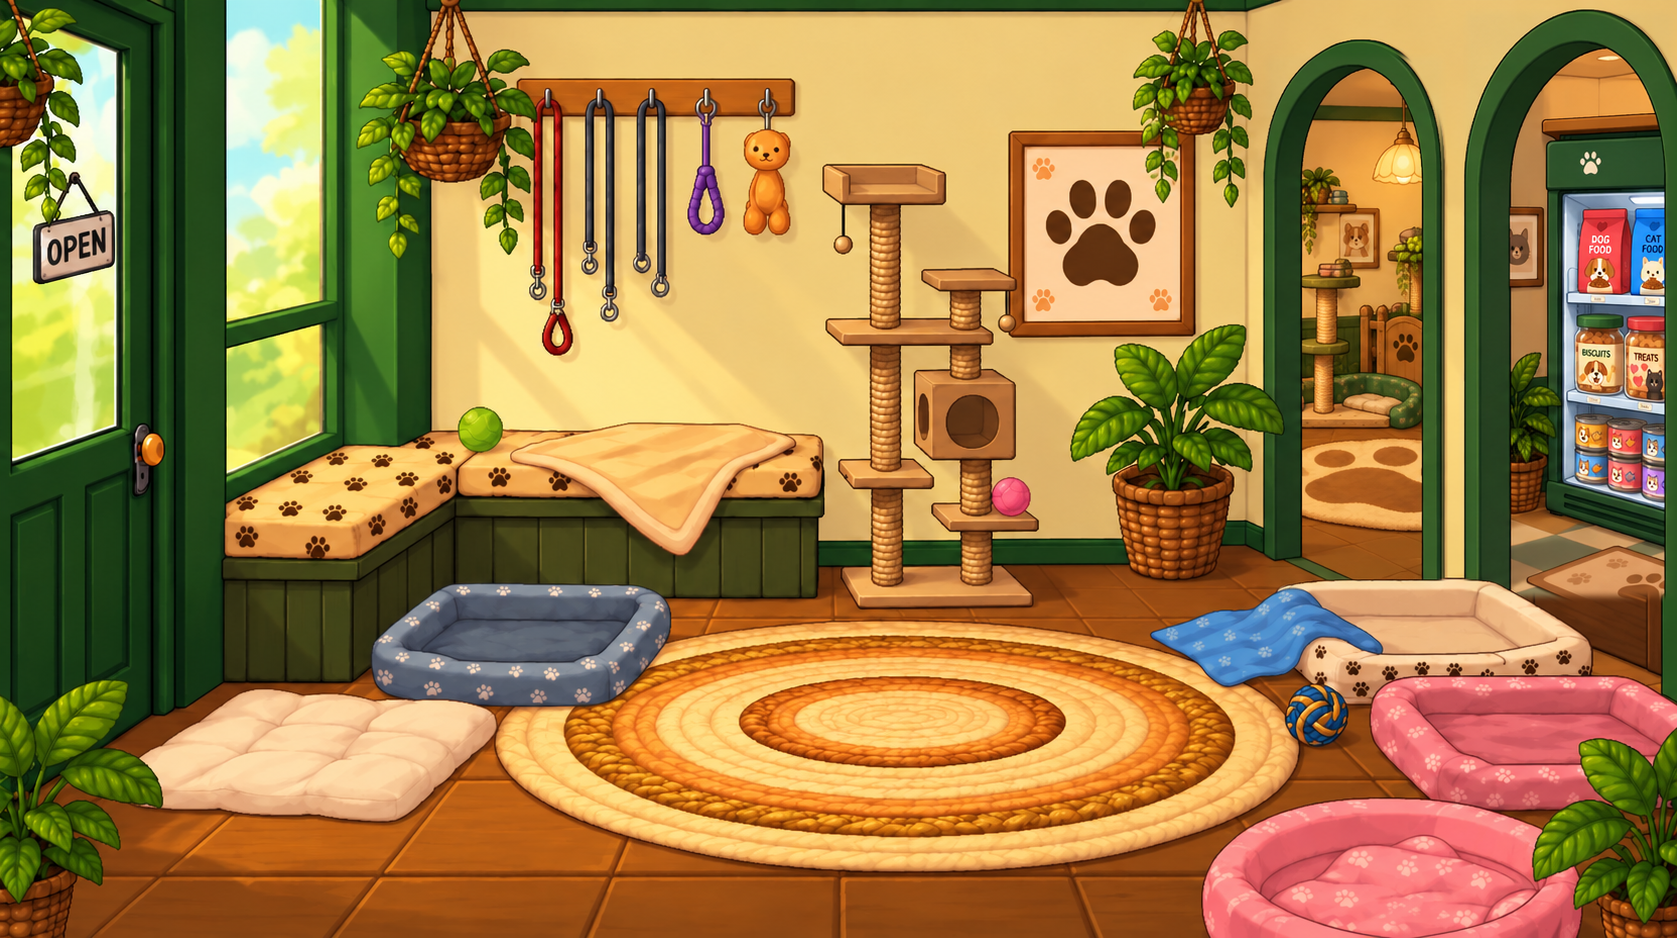
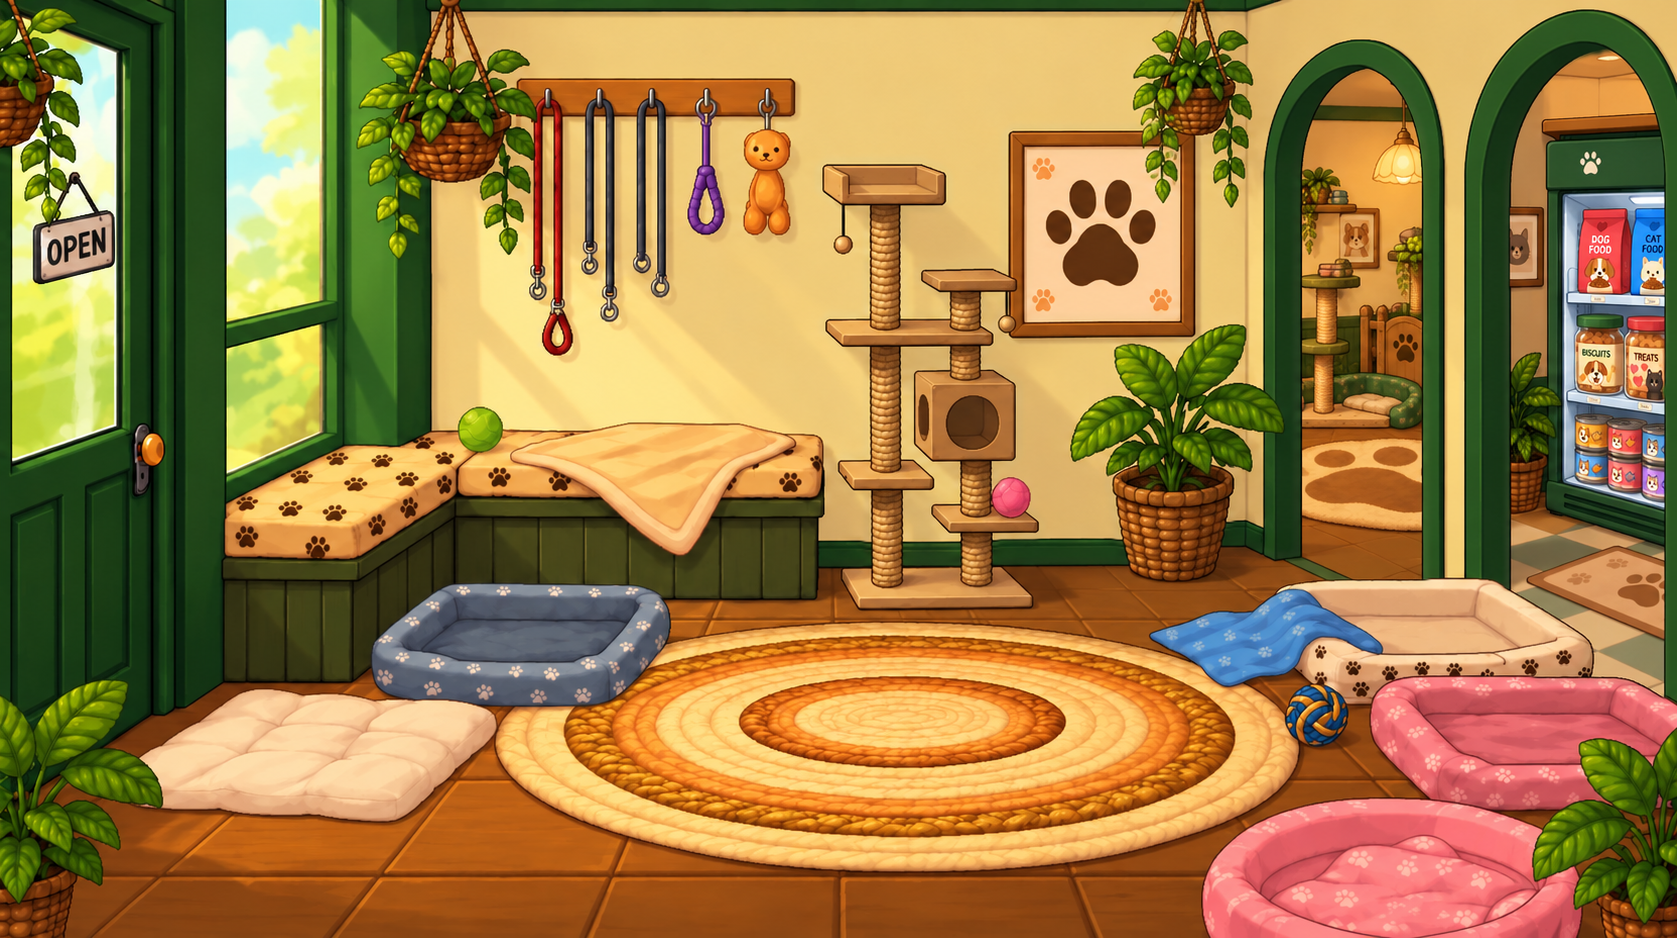
Doors: baked open pictures follow the door shape (no leftover door), hover pushes the door ajar; Foster hover tag says FOSTER like ADOPT (shared PetTag)
Claude-Session: https://claude.ai/code/session_01KbwSo6yL3mitC5MkkWGPtA

diff --git a/src/screens/PetShopScreen.js b/src/screens/PetShopScreen.js
@@ -9,6 +9,7 @@ import InventoryOverlay from '../components/InventoryOverlay';
 import ScreenHud from '../components/ScreenHud';
 import PetSprite from '../components/PetSprite';
 import { AdoptModal } from '../components/PetCard';
+import PetTag from '../components/PetTag';
 import { PixelText, PixelPanel, PixelButton, COLORS, PIXEL_FONT } from '../components/Pixel';
 
 // Pets were laid out in Plopper on a 1376×768 canvas with the bg STRETCHED to
@@ -45,29 +46,6 @@ export const SHOP_PETS = [
 ];
 
 
-// Label over a pet — plain white outlined pixel text (like the map signs), shown
-// only while hovering that pet. It fades in and bobs gently.
-function PetTag({ label, show }) {
-  const fade = useRef(new Animated.Value(0)).current;
-  const bob = useRef(new Animated.Value(0)).current;
-  useEffect(() => {
-    Animated.timing(fade, { toValue: show ? 1 : 0, duration: 160, useNativeDriver: true }).start();
-  }, [show]);
-  useEffect(() => {
-    const loop = Animated.loop(Animated.sequence([
-      Animated.timing(bob, { toValue: 1, duration: 800, easing: Easing.inOut(Easing.sin), useNativeDriver: true }),
-      Animated.timing(bob, { toValue: 0, duration: 800, easing: Easing.inOut(Easing.sin), useNativeDriver: true }),
-    ]));
-    loop.start();
-    return () => loop.stop();
-  }, []);
-  const y = bob.interpolate({ inputRange: [0, 1], outputRange: [0, -4] });
-  return (
-    <Animated.View pointerEvents="none" style={{ opacity: fade, transform: [{ translateY: y }] }}>
-      <PixelText size={10}>{label}</PixelText>
-    </Animated.View>
-  );
-}
 
 // ── Main screen ───────────────────────────────────────────────────────────────
 export default function PetShopScreen({ navigation }) {
@@ -108,6 +86,10 @@ export default function PetShopScreen({ navigation }) {
   return (
     <View style={styles.root} onLayout={(e) => setBox({ w: e.nativeEvent.layout.width, h: e.nativeEvent.layout.height })}>
       <Image source={PETSHOP_STATES.closed} style={styles.bg} resizeMode="stretch" />
+      {/* hovering a door that can be opened pushes it ajar (its open picture shows faintly) */}
+      {hovered && !opening && ARCHES.some((a) => a.id === hovered && level >= a.level) && (
+        <Image source={PETSHOP_STATES[hovered]} style={[styles.bg, { opacity: 0.4 }]} resizeMode="stretch" pointerEvents="none" />
+      )}
       {/* the door you tapped swings open: its open picture fades in over the shut one */}
       {opening && (
         <Animated.Image source={PETSHOP_STATES[opening]} style={[styles.bg, { opacity: openFade }]} resizeMode="stretch" pointerEvents="none" />
@@ -154,7 +136,6 @@ export default function PetShopScreen({ navigation }) {
             onHoverOut={() => setHovered((h) => (h === a.id ? null : h))}
             onPress={() => tapDoor(a)}
           >
-            {!locked && !opening && <View pointerEvents="none" style={[styles.archGlow, { borderTopLeftRadius: 999, borderTopRightRadius: 999, opacity: on ? 1 : 0 }]} />}
                       </Pressable>
         );
       })}
@@ -191,7 +172,6 @@ const styles = StyleSheet.create({
   archLocked: { position: 'absolute', left: 0, top: 0, right: 0, bottom: 0, borderTopLeftRadius: 999, borderTopRightRadius: 999, backgroundColor: 'rgba(252,238,196,0.62)' },
   lockTitle: { fontFamily: Platform.select({ web: "'Almendra', Georgia, serif", default: 'Almendra' }), fontSize: 22, color: '#4a2a10', textAlign: 'center', fontWeight: 'bold' },
   lockSub: { fontFamily: Platform.select({ web: "'Almendra', Georgia, serif", default: 'Almendra' }), fontSize: 14, color: '#7a5030', textAlign: 'center', marginTop: 2 },
-  archGlow: { position: 'absolute', left: 0, top: 0, right: 0, bottom: 0, backgroundColor: 'rgba(255,236,170,0.22)', borderWidth: 3, borderColor: 'rgba(255,240,190,0.55)' },
 
   modalOverlay: {
     ...StyleSheet.absoluteFillObject, backgroundColor: 'rgba(0,0,0,0.65)',

diff --git a/src/screens/FosterScreen.js b/src/screens/FosterScreen.js
@@ -7,7 +7,7 @@ import ScreenHud from '../components/ScreenHud';
 import InventoryOverlay from '../components/InventoryOverlay';
 import PetSprite from '../components/PetSprite';
 import { PixelText, PixelPanel, PixelButton } from '../components/Pixel';
-import TagLabel from '../components/TagLabel';
+import PetTag from '../components/PetTag';
 import { AdoptModal } from '../components/PetCard';
 
 // The Foster Center: the pet shop's big back room. Customers find strays and bring
@@ -60,9 +60,7 @@ export default function FosterScreen({ navigation }) {
             onPress={() => setPicked(stray)}
           >
             <PetSprite petKey={stray.key} w={w} h={h} source={rest} asleep={rest ? true : undefined} />
-            {on && (
-              <TagLabel title={def.name} sub={`${def.price} coins`} style={styles.tag} />
-            )}
+            <View style={styles.tagWrap} pointerEvents="none"><PetTag show={on} label="FOSTER" /></View>
           </Pressable>
         );
       })}
@@ -97,7 +95,7 @@ export default function FosterScreen({ navigation }) {
 const styles = StyleSheet.create({
   root: { flex: 1, backgroundColor: '#1a1200' },
   bg: { position: 'absolute', top: 0, left: 0, right: 0, bottom: 0, width: '100%', height: '100%' },
-  tag: { position: 'absolute', bottom: '100%', alignSelf: 'center', marginBottom: 2 },
+  tagWrap: { position: 'absolute', left: -40, right: -40, top: -22, alignItems: 'center', zIndex: 50 },
   empty: { position: 'absolute', left: 0, right: 0, top: '12%', alignItems: 'center', zIndex: 30 },
   back: { position: 'absolute', right: 16, bottom: 12, zIndex: 30, flexDirection: 'row', gap: 8, alignItems: 'center' },
   roomTitle: { position: 'absolute', left: 0, right: 0, top: 8, alignItems: 'center', zIndex: 30 },

diff --git a/src/components/PetTag.js b/src/components/PetTag.js
@@ -1,0 +1,27 @@
+import React, { useRef, useEffect } from 'react';
+import { Animated, Easing } from 'react-native';
+import { PixelText } from './Pixel';
+
+// Label over a pet — plain white outlined pixel text (like the map signs), shown
+// only while hovering that pet. It fades in and bobs gently.
+export default function PetTag({ label, show }) {
+  const fade = useRef(new Animated.Value(0)).current;
+  const bob = useRef(new Animated.Value(0)).current;
+  useEffect(() => {
+    Animated.timing(fade, { toValue: show ? 1 : 0, duration: 160, useNativeDriver: true }).start();
+  }, [show]);
+  useEffect(() => {
+    const loop = Animated.loop(Animated.sequence([
+      Animated.timing(bob, { toValue: 1, duration: 800, easing: Easing.inOut(Easing.sin), useNativeDriver: true }),
+      Animated.timing(bob, { toValue: 0, duration: 800, easing: Easing.inOut(Easing.sin), useNativeDriver: true }),
+    ]));
+    loop.start();
+    return () => loop.stop();
+  }, []);
+  const y = bob.interpolate({ inputRange: [0, 1], outputRange: [0, -4] });
+  return (
+    <Animated.View pointerEvents="none" style={{ opacity: fade, transform: [{ translateY: y }] }}>
+      <PixelText size={10}>{label}</PixelText>
+    </Animated.View>
+  );
+}
